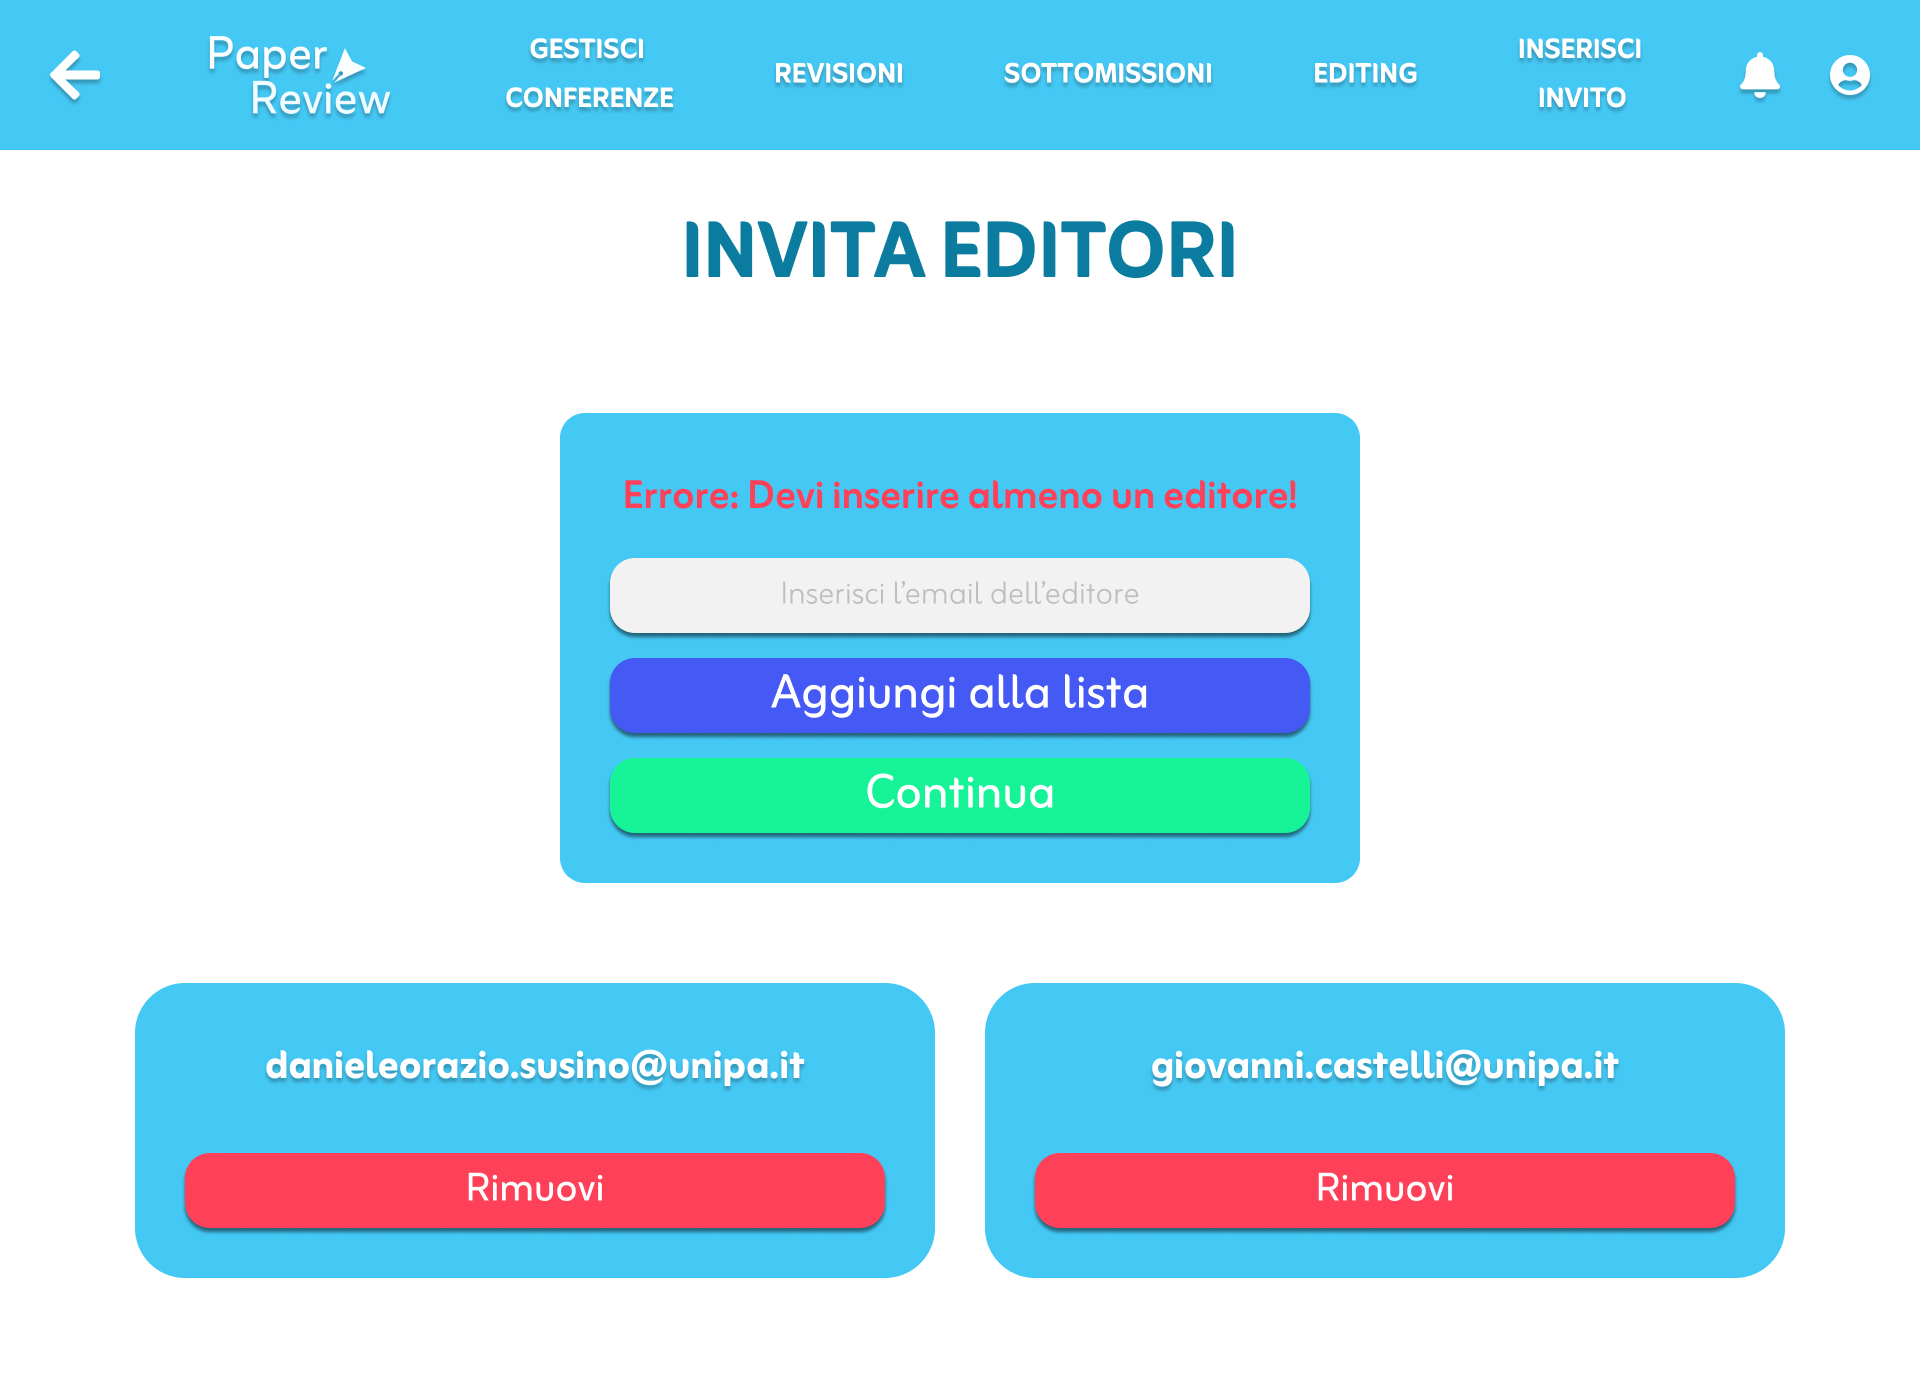
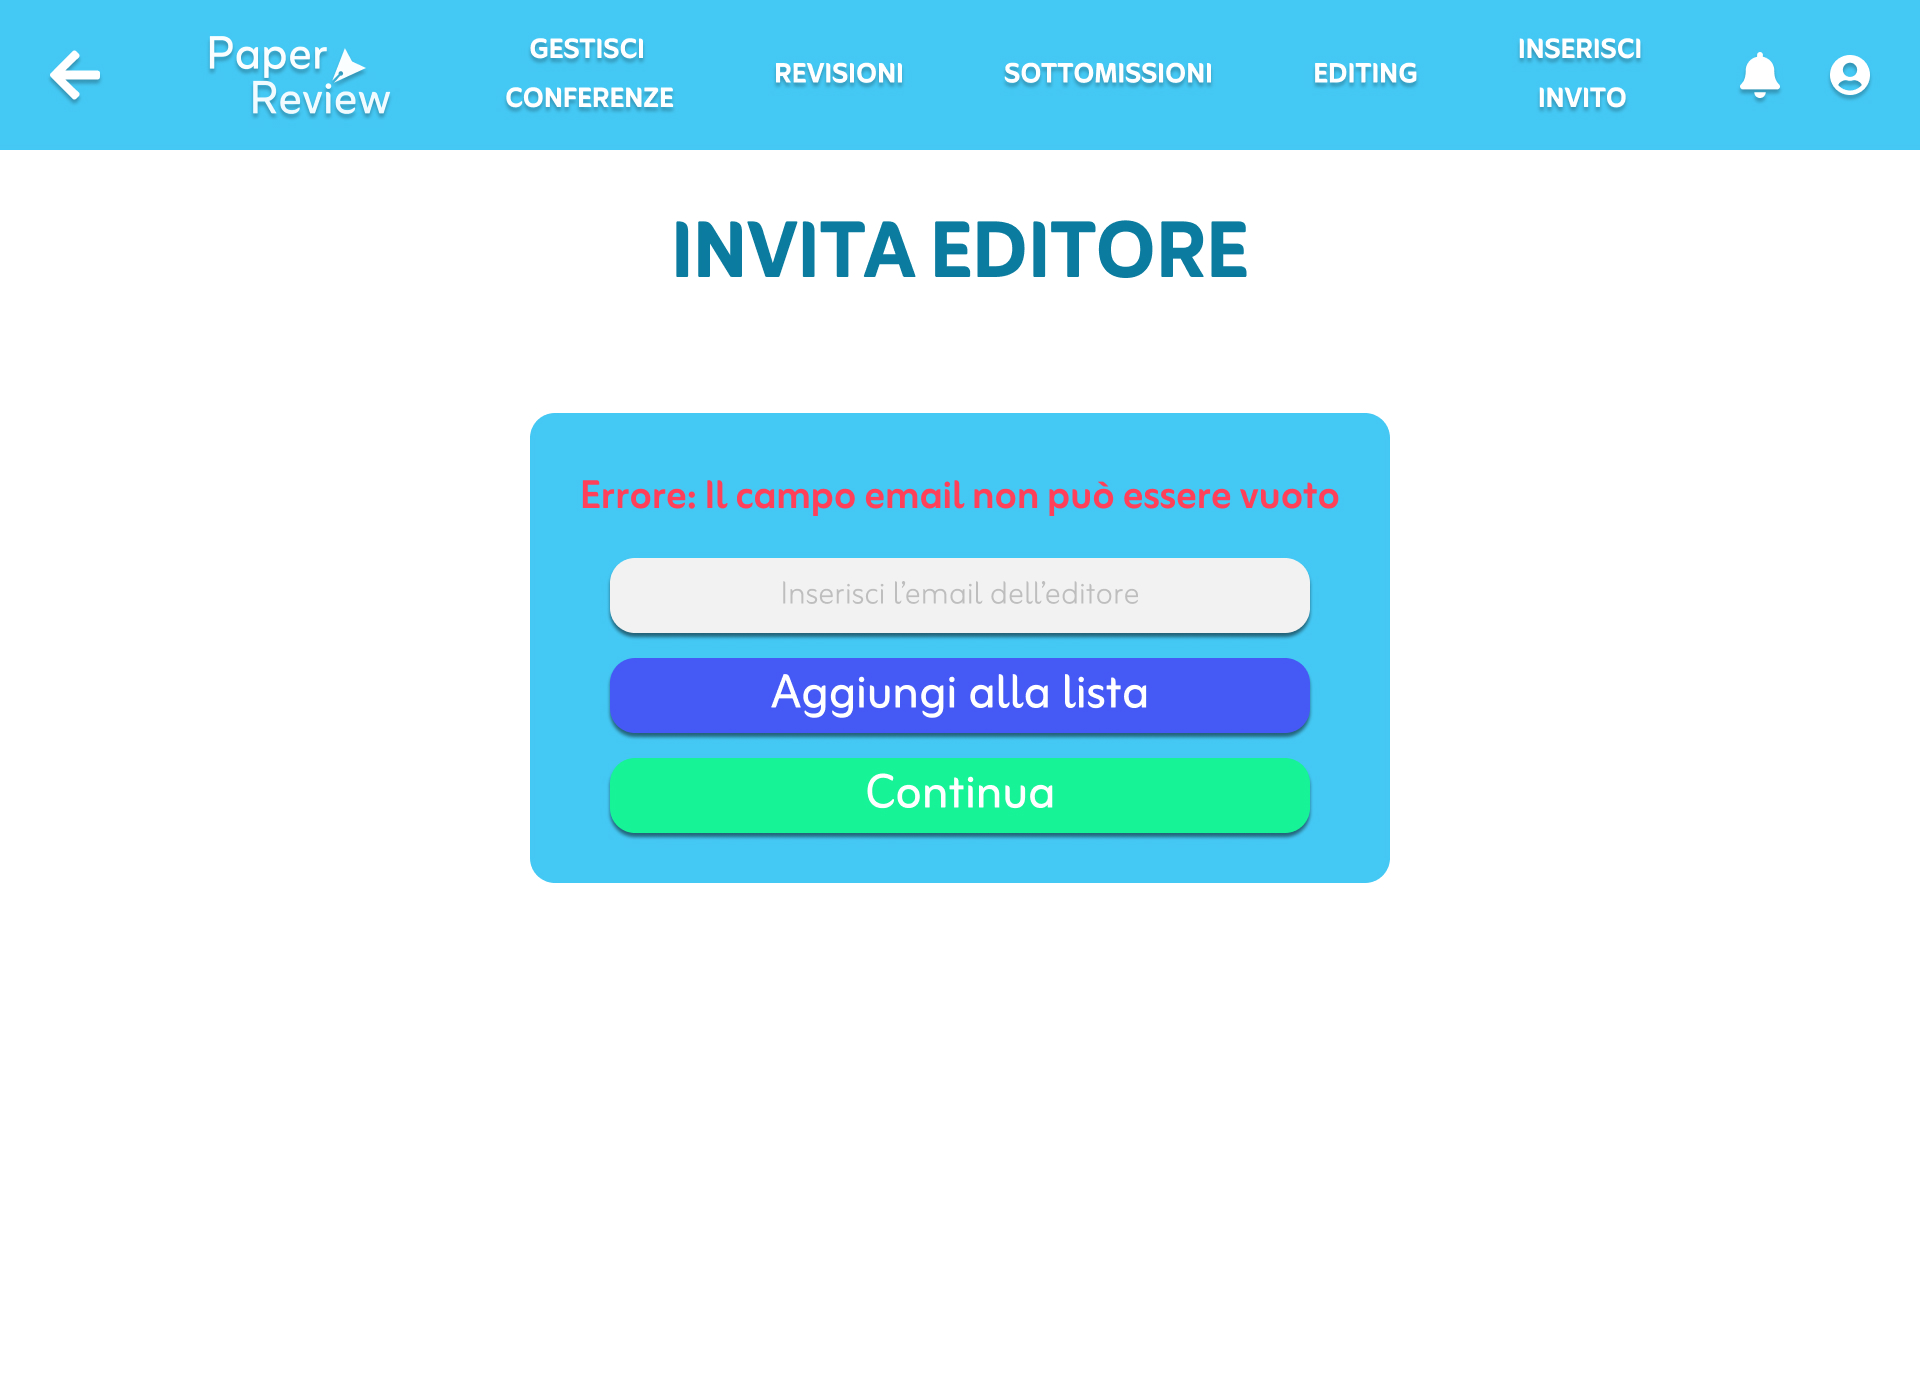
Invita editore ora è singolo

Changed region(s): [[0.0625, 0.6757, 0.9375, 0.9214], [0.25, 0.2764, 0.75, 0.645], [0.3438, 0.1536, 0.6562, 0.215]]

diff --git a/Codice/Paper Review/src/main/java/com/paperreview/paperreview/gestioneConferenze/controls/InvitaEditoriControl.java b/Codice/Paper Review/src/main/java/com/paperreview/paperreview/gestioneConferenze/controls/InvitaEditoriControl.java
@@ -86,6 +86,12 @@ public class InvitaEditoriControl implements ControlledScreen {
             return;
         }
 
+        if (emails.size() > 1){
+            errorLabel.setText("Errore: Puoi inserire un solo editore!");
+            errorLabel.setVisible(true);
+            return;
+        }
+
         // Aggiunta email
         emails.add(nuovaEmail);
         errorLabel.setVisible(false); // nascondi eventuale errore
@@ -132,7 +138,7 @@ public class InvitaEditoriControl implements ControlledScreen {
          */
 
         if (emails.size() == 0) {
-            errorLabel.setText("Errore: Devi inserire almeno un editore!");
+            errorLabel.setText("Errore: Devi ancora inserire un editore!");
             errorLabel.setVisible(true);
             return;
         }
